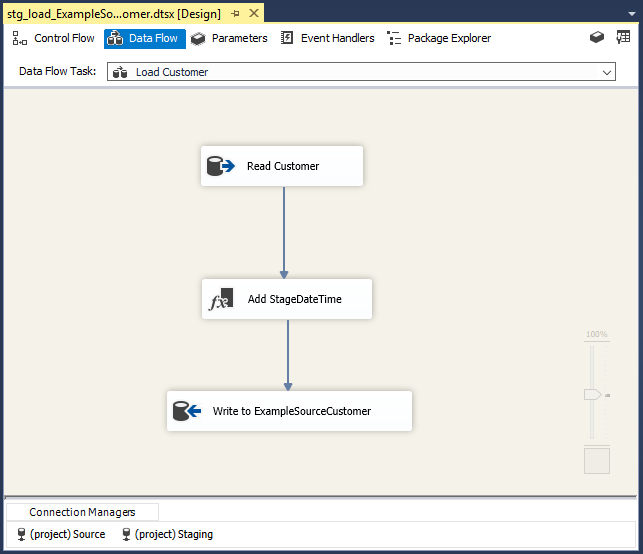
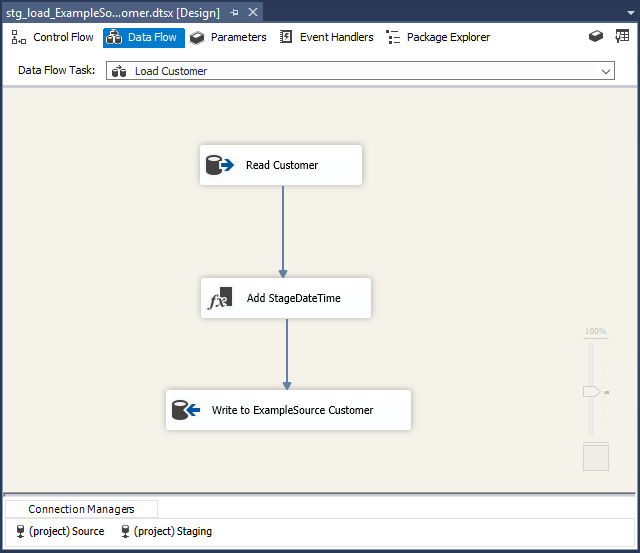
Fixed issue with spaces being removed from the output. Updated documentation with screenshots accordingly.
Related Work Items: #91

diff --git a/XGenerateLib/src/com/xbreeze/xgenerate/template/section/NamedTemplateSection.java b/XGenerateLib/src/com/xbreeze/xgenerate/template/section/NamedTemplateSection.java
@@ -207,7 +207,7 @@ public class NamedTemplateSection extends TemplateSection {
 							Pattern.quote(PLACEHOLDER_PLACEHOLDER_NAME),
 							Pattern.quote(config.getTemplateConfig().getFileFormatConfig().getCurrentAccessor())
 					);
-					placeholderProcessedTemplateContent = placeholderProcessedTemplateContent.replaceAll(placeholderRegex, String.format("<xsl:if test=\"./@$5\">$1$2%s$4$5$6</xsl:if>", parentBindingConfig.getPlaceholderName()));
+					placeholderProcessedTemplateContent = placeholderProcessedTemplateContent.replaceAll(placeholderRegex, String.format("</xsl:text><xsl:if test=\"./@$5\"><xsl:text>$1$2%s$4$5$6</xsl:text></xsl:if><xsl:text>", parentBindingConfig.getPlaceholderName()));
 					
 					// When the placeholder wasn't replaced in the previous replacement, its due to it not being an attribute (probably).
 					// So we replace only the placeholder now.
@@ -219,7 +219,9 @@ public class NamedTemplateSection extends TemplateSection {
 				
 				// Append the raw template section into the pre-processed template.
 				preprocessedTemplate.append("<!-- Raw begin -->");
+				preprocessedTemplate.append("<xsl:text>");
 				preprocessedTemplate.append(placeholderProcessedTemplateContent);
+				preprocessedTemplate.append("</xsl:text>");
 				preprocessedTemplate.append("<!-- Raw end -->");
 			}
 			

diff --git a/XGenerateLib/src/com/xbreeze/xgenerate/template/PreprocessedTemplate.java b/XGenerateLib/src/com/xbreeze/xgenerate/template/PreprocessedTemplate.java
@@ -183,7 +183,7 @@ public class PreprocessedTemplate {
 				 * @    - The XML attribute accessor.
 				 * $1   - The value of group 1 (the attribute name to select from the find regex)
 				 */
-				placeholderFormat = "<xsl:value-of select=\"%s/@$1\" />";
+				placeholderFormat = "</xsl:text><xsl:value-of select=\"%s/@$1\" /><xsl:text>";
 				break;
 		}
 		

diff --git a/Documentation/docs/Examples/Microsoft_SSIS/Simple_staging.md b/Documentation/docs/Examples/Microsoft_SSIS/Simple_staging.md
@@ -172,11 +172,7 @@ Updated the Source & Staging connection to the real Source & Staging databases w
     The annotation, which in the template is in the Description property, is now removed.
 
 #### Data Flow
-
 ![Output Data Flow](img/output_dataflow.png)
-
-!!! bug
-    Here the space between system_name and entity_name is removed. This is a known issue in CrossGenerate.
 
 ##### Source
 
@@ -200,8 +196,8 @@ Updated the Source & Staging connection to the real Source & Staging databases w
 ###### Input and Output Properties
 ![Output Destination Input and Output Properties](img/output_dest_adv_columns.png)
 
-!!! todo
-    Update screenshot when name of dest component is fixed
+#### Execution
+![Output Data Flow Execution](img/output_dataflow_executed.png)
 
 ## Attachments
 The sample solution with the template database scripts & SSIS package can be found in the following zip file:
